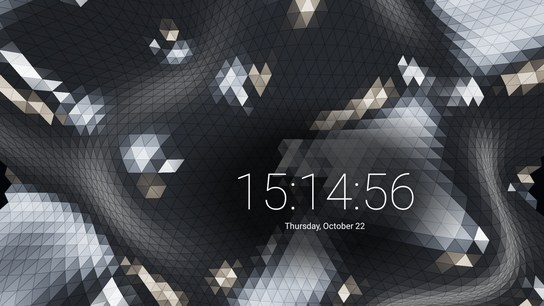
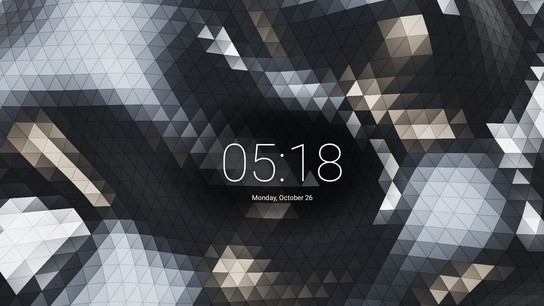
Refresh Prism 1.1 and document its nonrandom clock control

diff --git a/test/reviewed-saver-releases.test.js b/test/reviewed-saver-releases.test.js
@@ -3,31 +3,39 @@ import assert from 'node:assert/strict';
 import { SCREENSAVERS } from '../src/screensaver-registry.js';
 import { publishedApk } from '../src/update-releases.js';
 
-const hearth = SCREENSAVERS.find((entry) => entry.id === 'hearth-presence');
+const releases = [
+  {id: 'hearth-presence', pkg: 'com.jeremykenedy.hearthpresence', dream: '.HearthDreamService',
[1 lines of base64/hex data omitted]
+  {id: 'prism-clock', pkg: 'com.jeremykenedy.prismclock', dream: '.PrismDreamService',
[1 lines of base64/hex data omitted]
+];
 
-test('Hearth installation uses the reviewed public artifact without changing its identity', () => {
-  assert.equal(hearth.pkg, 'com.jeremykenedy.hearthpresence');
-  assert.equal(hearth.dreamComponent, hearth.pkg + '/.HearthDreamService');
-  assert.equal(hearth.tag, 'v1.1.0');
-  assert.equal(hearth.asset, 'hearth-presence.apk');
-  assert.equal(hearth.bytes, 121223466);
[1 lines of base64/hex data omitted]
-});
-
-test('a reviewed installation baseline does not hide newer published Hearth updates', async () => {
-  let requestedTag = 'not called';
-  const next = await publishedApk(hearth, {
-    latestRelease: async (repo, asset, tag) => {
-      assert.equal(repo, hearth.repo);
-      assert.equal(asset, hearth.asset);
-      requestedTag = tag;
-      return {
-        tag: 'v1.2.0', asset, sha256: 'a'.repeat(64), bytes: 54321,
-        apkUrl: 'https://github.com/jeremykenedy/hearth-presence/releases/download/v1.2.0/hearth-presence.apk',
-      };
-    },
+for (const release of releases) {
+  const entry = SCREENSAVERS.find((item) => item.id === release.id);
+  test(`${entry.name} installs its reviewed public artifact without changing identity`, () => {
+    assert.equal(entry.pkg, release.pkg);
+    assert.equal(entry.dreamComponent, release.pkg + '/' + release.dream);
+    assert.equal(entry.tag, 'v1.1.0');
+    assert.equal(entry.asset, release.id + '.apk');
+    assert.equal(entry.bytes, release.bytes);
+    assert.equal(entry.sha256, release.sha256);
   });
-  assert.equal(requestedTag, undefined);
-  assert.equal(next.tag, 'v1.2.0');
-  assert.equal(next.sha256, 'a'.repeat(64));
-});
+
+  test(`${entry.name} latest checks ignore the reviewed installation baseline`, async () => {
+    let requestedTag = 'not called';
+    const next = await publishedApk(entry, {
+      latestRelease: async (repo, asset, tag) => {
+        assert.equal(repo, entry.repo);
+        assert.equal(asset, entry.asset);
+        requestedTag = tag;
+        return {
+          tag: 'v1.2.0', asset, sha256: 'a'.repeat(64), bytes: 54321,
+          apkUrl: `https://github.com/${repo}/releases/download/v1.2.0/${asset}`,
+        };
+      },
+    });
+    assert.equal(requestedTag, undefined);
+    assert.equal(next.tag, 'v1.2.0');
+    assert.equal(next.sha256, 'a'.repeat(64));
+  });
+}

diff --git a/src/screensaver-registry.js b/src/screensaver-registry.js
@@ -82,7 +82,10 @@ export const SCREENSAVERS = [
     dreamComponent: 'com.jeremykenedy.prismclock/.PrismDreamService',
     repo: 'jeremykenedy/prism-clock',
     asset: 'prism-clock.apk',
-    blurb: 'A moving faceted surface with a drifting clock, adjustable materials, lighting, time format and motion.',
+    tag: 'v1.1.0',
[1 lines of base64/hex data omitted]
+    bytes: 127947,
+    blurb: 'Original moving faceted materials with an optional drifting clock, adjustable lighting and motion.',
   },
   {
     id: 'jellyfish-drift',

diff --git a/docs/SCREENSAVERS.md b/docs/SCREENSAVERS.md
@@ -10,7 +10,7 @@
 | `aquarium-4k` | Aquarium 4K | `com.jeremykenedy.firetv.aquarium` | [jeremykenedy/fire-tv-aquarium](https://github.com/jeremykenedy/fire-tv-aquarium) | Offline 4K aquarium footage with custom fish, sea life and backgrounds |
 | `cloud-drift-clock` | Cloud Drift Clock | `com.jeremykenedy.clouddriftclock` | [jeremykenedy/cloud-drift-clock](https://github.com/jeremykenedy/cloud-drift-clock) | Real filmed flight through sunset clouds, with an optional drifting clock and playback speed |
 | `skycast-weather` | Skycast Weather | `com.jeremykenedy.skycastweather` | [jeremykenedy/skycast-weather](https://github.com/jeremykenedy/skycast-weather) | Real city forecasts over filmed clouds, with units, forecast range, playback speed and a clouds-only option |
-| `prism-clock` | Prism Clock | `com.jeremykenedy.prismclock` | [jeremykenedy/prism-clock](https://github.com/jeremykenedy/prism-clock) | A moving faceted surface with a drifting clock, adjustable materials, lighting, time format and motion |
+| `prism-clock` | Prism Clock | `com.jeremykenedy.prismclock` | [jeremykenedy/prism-clock](https://github.com/jeremykenedy/prism-clock) | Original moving faceted materials with an optional drifting clock, adjustable lighting and motion |
 | `jellyfish-drift` | Jellyfish Drift | `com.jeremykenedy.jellyfishdrift` | [jeremykenedy/jellyfish-drift](https://github.com/jeremykenedy/jellyfish-drift) | Animated jellyfish with adjustable water, density, motion, species and light rays |
 | `jellyfish-drift-v2` | Jellyfish Drift V2 | `com.jeremykenedy.jellyfishdriftv2` | [jeremykenedy/jellyfish-drift-v2](https://github.com/jeremykenedy/jellyfish-drift-v2) | Real filmed jellyfish in blue aquarium and deep ocean scenes, with playback speed and random selection |
 | `firefly-grove` | Firefly Grove | `com.jeremykenedy.fireflygrove` | [jeremykenedy/firefly-grove](https://github.com/jeremykenedy/firefly-grove) | Animated fireflies in a grove with adjustable density, motion and color |
@@ -129,11 +129,22 @@ The existing `pipeworks-dream` entry downloads the latest signed release. Versio
 
 The exact released APK passed physical signed-update preservation, remote Preview/Credits/Back and actual bound DreamService/Back, independent moving review and exact restoration. The [upstream verification](https://github.com/jeremykenedy/pipeworks-dream/blob/v1.1.0/docs/VERIFICATION.md) records short dense-scene presentation samples and their limits. Automatic idle activation, native 4K and sustained thermal behavior remain unverified. The gallery and desktop catalog now use the final physical capture identified in [capture provenance](screenshots/candidate-sources.json).
 
-## Prism Clock
+## Prism Clock 1.1
 
-Install with `firetv-screensavers --install=prism-clock`. The published 1.0.0 APK retains the app package and settings on replacement. Materials, facet size, surface motion, lighting, contrast, clock size, time format, seconds, date and clock movement are configurable in the native settings screen.
+The reviewed 1.1.0/code 4 APK keeps the original renderer, package and signer.
+Its twelve-row settings provider adds Show clock as a boolean that defaults On
+and is never randomized. Turning it Off hides clock/date/seconds together while
+retaining all eleven original choices. Install or update with
+`firetv-screensavers --install=prism-clock`; the existing latest-update checker
+continues to consult current published releases independently of this baseline.
 
-The silver preview in the gallery is actual physical Fire TV output. Its maximum tested preset presented approximately 24.67 frames per second, with limited performance headroom. The user's existing screensaver selection remains unchanged during installation.
+The current preview is actual physical API 28 output with the clock On. Default
+performance on that hardware is approximately 17-18 compositor presents/s, not a
+GPU improvement. Final code 4 Preview/controls and retention passed; natural idle
+evidence belongs to equivalent code 2. Other hardware and thermal endurance remain
+unverified. The current APK is 127,947 bytes, SHA-256
[1 lines of base64/hex data omitted]
+[Tagged app contract](https://github.com/jeremykenedy/prism-clock/blob/v1.1.0/docs/configuration.md).
 
 ## Separate jellyfish editions
 

diff --git a/docs/SCREENSHOTS.md b/docs/SCREENSHOTS.md
@@ -55,6 +55,9 @@ Skycast Weather 1.0 uses an untouched physical Fire TV API28 code4 London five-d
 
 ## Screensavers
 
+Prism Clock uses the final 1.1.0/code 4 physical clock-On capture. Its original
+renderer is unchanged; the image does not imply improved GPU performance.
+
 Hearth Presence uses the exact 1.1.0/code 7 physical Large-wood capture. The
 recorded wood source is CC BY 3.0; the current image and release provenance are
 recorded in [candidate sources](screenshots/candidate-sources.json). It does not
@@ -73,7 +76,7 @@ Twilight Hearth shows actual physical Fire TV modern/bright output from its veri
     <a href="screenshots/screensaver-aquarium-live.jpg"><picture><source media="(min-width: 1280px)" srcset="screenshots/grid/screensaver-aquarium-live-desktop.jpg 2x"><source media="(min-width: 600px)" srcset="screenshots/grid/screensaver-aquarium-live-tablet.jpg 2x"><img src="screenshots/screensaver-aquarium-live.jpg" alt="Aquarium Live" title="Aquarium Live"></picture></a>
     <a href="screenshots/screensaver-cloud-drift-clock.jpg"><picture><source media="(min-width: 1280px)" srcset="screenshots/grid/screensaver-cloud-drift-clock-desktop.jpg 2x"><source media="(min-width: 600px)" srcset="screenshots/grid/screensaver-cloud-drift-clock-tablet.jpg 2x"><img src="screenshots/screensaver-cloud-drift-clock.jpg" alt="Cloud Drift Clock 2.0, real forward flight through sunset clouds with the clock disabled" title="Cloud Drift Clock"></picture></a>
     <a href="screenshots/screensaver-skycast-weather.jpg"><picture><source media="(min-width: 1280px)" srcset="screenshots/grid/screensaver-skycast-weather-desktop.jpg 2x"><source media="(min-width: 600px)" srcset="screenshots/grid/screensaver-skycast-weather-tablet.jpg 2x"><img src="screenshots/screensaver-skycast-weather.jpg" alt="Skycast Weather 1.0 physical Fire TV London forecast over real cloud flight" title="Skycast Weather"></picture></a>
-    <a href="screenshots/screensaver-prism-clock.jpg"><picture><source media="(min-width: 1280px)" srcset="screenshots/grid/screensaver-prism-clock-desktop.jpg 2x"><source media="(min-width: 600px)" srcset="screenshots/grid/screensaver-prism-clock-tablet.jpg 2x"><img src="screenshots/screensaver-prism-clock.jpg" alt="Prism Clock with a drifting clock over moving silver facets on a physical Fire TV" title="Prism Clock"></picture></a>
+    <a href="screenshots/screensaver-prism-clock.jpg"><picture><source media="(min-width: 1280px)" srcset="screenshots/grid/screensaver-prism-clock-desktop.jpg 2x"><source media="(min-width: 600px)" srcset="screenshots/grid/screensaver-prism-clock-tablet.jpg 2x"><img src="screenshots/screensaver-prism-clock.jpg" alt="Prism Clock 1.1 original facets with Show clock On on physical API 28" title="Prism Clock"></picture></a>
     <a href="screenshots/screensaver-perseid-passage.jpg"><picture><source media="(min-width: 1280px)" srcset="screenshots/grid/screensaver-perseid-passage-desktop.jpg 2x"><source media="(min-width: 600px)" srcset="screenshots/grid/screensaver-perseid-passage-tablet.jpg 2x"><img src="screenshots/screensaver-perseid-passage.jpg" alt="Perseid Passage with bright meteors crossing a deep blue starfield" title="Perseid Passage"></picture></a>
     <a href="screenshots/screensaver-split-flap-drift.jpg"><picture><source media="(min-width: 1280px)" srcset="screenshots/grid/screensaver-split-flap-drift-desktop.jpg 2x"><source media="(min-width: 600px)" srcset="screenshots/grid/screensaver-split-flap-drift-tablet.jpg 2x"><img src="screenshots/screensaver-split-flap-drift.jpg" alt="Split-Flap Drift with an illuminated split-flap clock floating on a dark background" title="Split-Flap Drift"></picture></a>
     <a href="screenshots/screensaver-canopy-drift.jpg"><picture><source media="(min-width: 1280px)" srcset="screenshots/grid/screensaver-canopy-drift-desktop.jpg 2x"><source media="(min-width: 600px)" srcset="screenshots/grid/screensaver-canopy-drift-tablet.jpg 2x"><img src="screenshots/screensaver-canopy-drift.jpg" alt="Animated autumn leaves drifting through a tree canopy" title="Canopy Drift"></picture></a>
